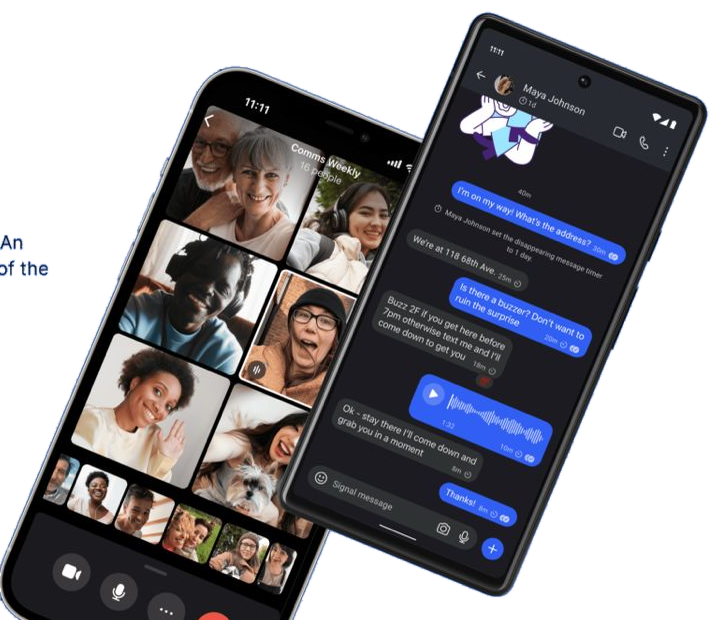
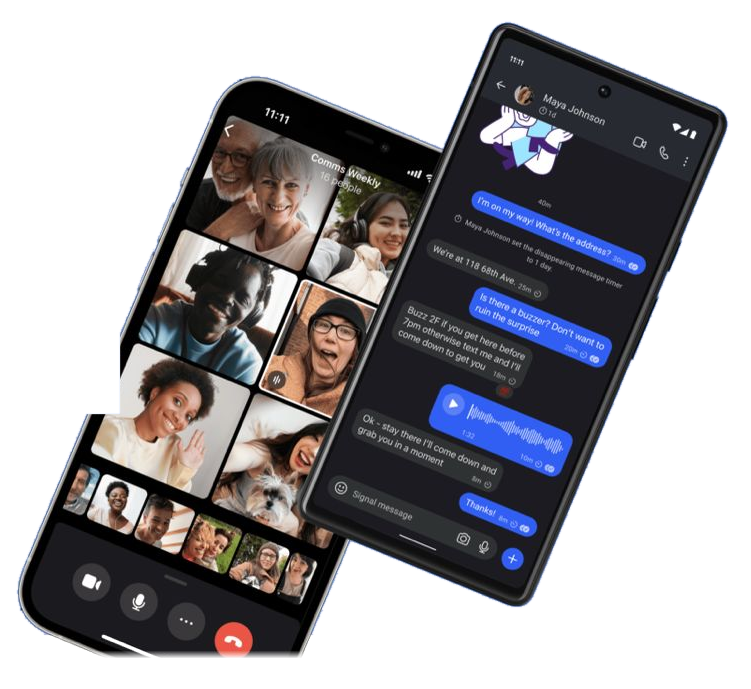
refine account menu drawer

diff --git a/frontend/features/auth/LoginForm.tsx b/frontend/features/auth/LoginForm.tsx
@@ -290,13 +290,13 @@ export function LoginForm() {
                   : "#9dbbf9",
             }}
           >
-            <div className="mx-auto flex w-full max-w-7xl flex-col items-center justify-between px-6 pt-12 pb-0 sm:px-10 sm:pt-16 lg:flex-row lg:items-end lg:px-16 lg:pt-20">
+            <div className="mx-auto flex w-full max-w-7xl flex-col items-center justify-between gap-8 px-6 pt-12 pb-12 sm:px-10 sm:pt-16 sm:pb-16 lg:flex-row lg:items-center lg:gap-12 lg:px-16 lg:pt-20 lg:pb-16">
               {/* Left Column: Speak Freely & CTAs */}
-              <div className="z-10 flex w-full flex-col items-start text-left lg:max-w-xl pb-12 sm:pb-16 lg:pb-24">
+              <div className="z-10 flex w-full flex-col items-start text-left lg:max-w-lg shrink-0">
                 <h1 className="text-5xl font-extrabold tracking-tight text-[#111827] dark:text-white sm:text-6xl lg:text-7xl leading-[1.06]">
                   Speak Freely
                 </h1>
-                <p className="mt-6 text-lg font-normal leading-relaxed text-[#1f2937]/90 dark:text-slate-200 sm:text-xl max-w-lg">
+                <p className="mt-6 text-lg font-normal leading-relaxed text-[#1f2937]/90 dark:text-slate-200 sm:text-xl">
                   Say &quot;hello&quot; to a different messaging experience. An unexpected focus on privacy,
                   combined with all of the features you expect.
                 </p>
@@ -326,11 +326,11 @@ export function LoginForm() {
               </div>
 
               {/* Right Column: Floating Two-Phone Artwork */}
-              <div className="relative mt-8 flex w-full items-end justify-center lg:mt-0 lg:w-1/2 lg:justify-end">
+              <div className="relative mt-4 flex w-full items-center justify-center lg:mt-0 lg:flex-1 lg:justify-end">
                 <img
                   src="/signal-hero-phones.png"
                   alt="Signal encrypted messenger phone screens"
-                  className="max-h-[460px] w-auto max-w-full drop-shadow-[0_20px_40px_rgba(0,0,0,0.18)] sm:max-h-[560px] lg:max-h-[640px] object-contain transition-transform duration-300 hover:scale-101 select-none"
+                  className="max-h-[440px] w-auto max-w-full drop-shadow-[0_20px_40px_rgba(0,0,0,0.18)] sm:max-h-[520px] lg:max-h-[580px] object-contain transition-transform duration-300 hover:scale-101 select-none"
                 />
               </div>
             </div>
